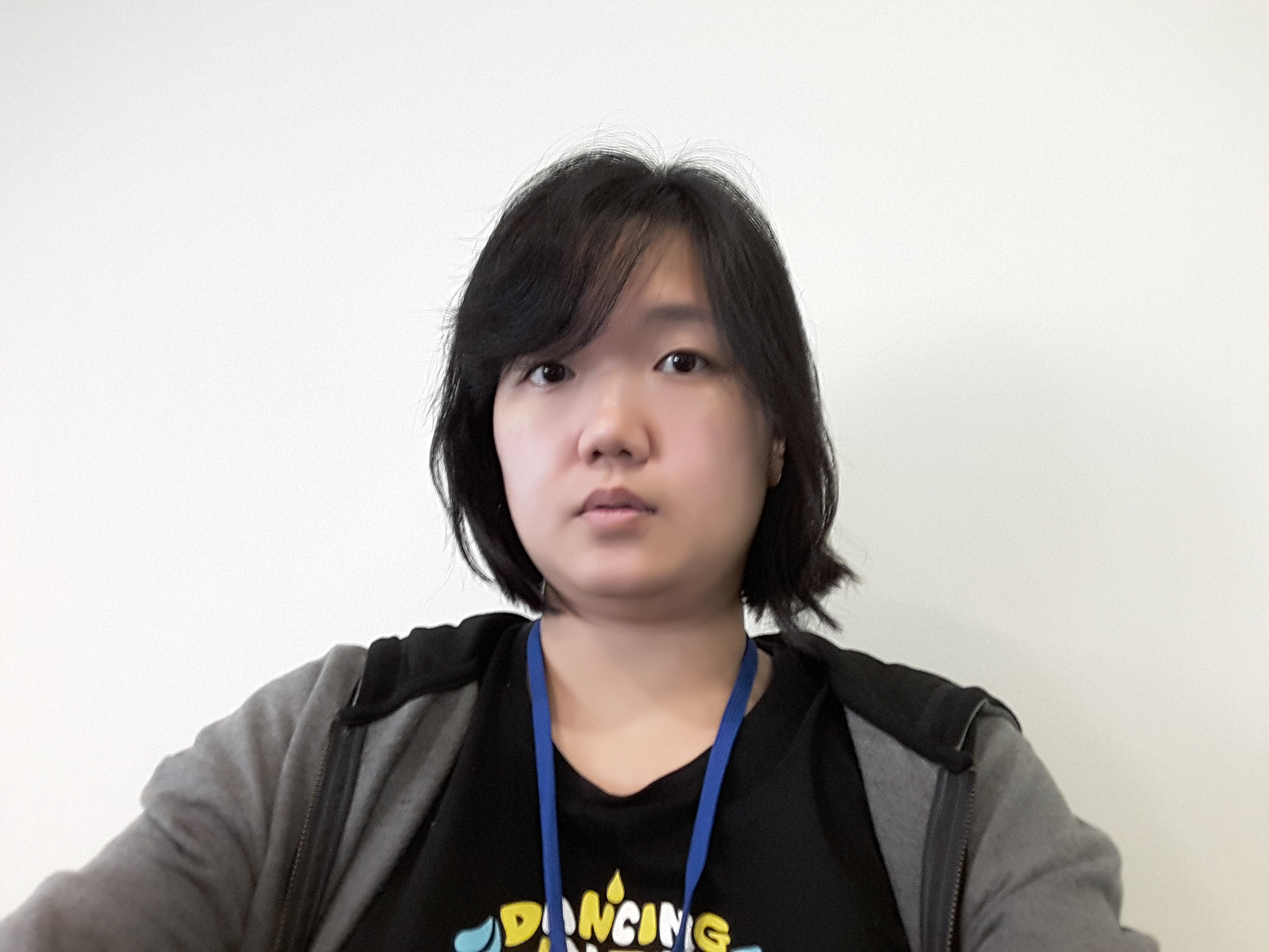
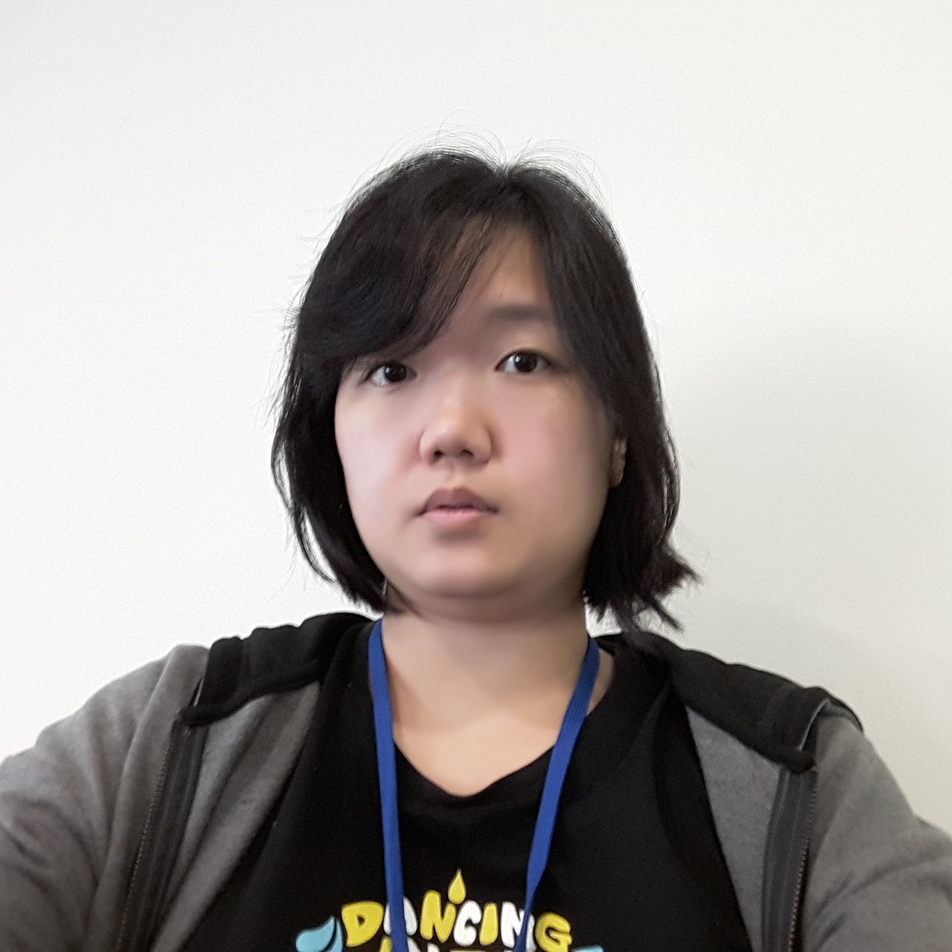
Added shenyang profile, fixed figure sizes

Changed region(s): [[0.0, 0.1553, 1.0, 1.0]]

diff --git a/people.html b/people.html
@@ -110,6 +110,15 @@
 	      </div>
 
 	      <div class="row">
+		<div class="col-xs-12 col-lg-6">
+		  <img src="img/people/shenyang.jpg" height="140" width="140" class="pull-left" alt="" />
+		  <ul style="list-style-type:none">
+		    <li><b>Shen Yang (Staff Scientist)</b></li>
+		    <li>M.S. in Biochemistry (Sun Yat Sen Univ., 2005)</li>
+		    <li>Ph.d in Biochemistry (Sun Yat Sen Univ., Joint-Ph.D Student Scholarship of China Scholarship Council, <a href="http://pondside.uchicago.edu/ecol-evol/">Dept. of Ecol & Evol, Univ. of Chicago</a>, 2009, Advisor: <a href="http://pondside.uchicago.edu/ecol-evol/people/wu.html">Chung-I Wu</a>)</li>
+		    <li>Profiles: <a href="https://scholar.google.com.sg/citations?user=aXQLJ5kAAAAJ&sortby=pubdate">Google Scholar</a></li>
+		  </ul>
+		</div>  
 	      	<div class="col-xs-12 col-lg-6">
 		  <img src="img/people/davide.jpg" height="140" width="140" class="pull-left" alt="" />
 		  <ul style="list-style-type:none">
@@ -119,7 +128,9 @@
                     <li>Profiles: <a href="https://scholar.google.com.sg/citations?user=QBQR50sAAAAJ&hl=en">Google Scholar</a>, <a href="https://www.linkedin.com/in/davideverzotto">LinkedIn</a>, <a href="https://twitter.com/davideverzotto">Twitter</a></li>
 		  </ul>
 		</div>
-
+	      </div>
+	      
+	      <div class="row">
 		<div class="col-xs-12 col-lg-6">
 		  <img src="img/people/tarini.jpg" height="140" width="140" class="pull-left" alt="" />
 		  <ul style="list-style-type:none">
@@ -130,9 +141,6 @@
 	            <li>Profiles: <a href="https://scholar.google.com.sg/citations?user=bAUS2DsAAAAJ&hl=en">Google Scholar</a></li>
 		  </ul>
 		</div>
-	      </div>
-
-	      <div class="row">
 		<div class="col-xs-12 col-lg-6">
 		  <img src="img/people/chenhao.jpg" height="140" width="140" class="pull-left" alt="" />
 		  <ul style="list-style-type:none">
@@ -141,7 +149,9 @@
 	          <li>Ph.D. in Computer Sci., (<a href="http://www.comp.nus.edu.sg/">NUS SoC</a>, 2015-present)</li>
 		  </ul>
 		</div>
-
+	      </div>
+	      
+	      <div class="row">
 		<div class="col-xs-12 col-lg-6">
 		<img src="img/people/nok.jpg" height="140" width="140" class="pull-left" alt="" />
 		<ul style="list-style-type:none">
@@ -151,9 +161,6 @@
 		  <li>Ph.D. in Computer Sci. (<a href="http://www.comp.nus.edu.sg/">NUS SoC</a>, 2015-present) </li>
 		</ul>
 		</div>
-	      </div>
-
-	      <div class="row">
 		<div class="col-xs-12 col-lg-6">
 		  <img src="img/people/amanda.jpg" height="140" width="140" class="pull-left" alt="" />
 		  <ul style="list-style-type:none">
@@ -161,7 +168,9 @@
 		  <li>B.S. (Hons.) in Biological Sci. (<a href="http://www.ntu.edu.sg/Pages/home.aspx">NTU</a>, 2013)</li>
 		  </ul>
 		</div>
-
+	      </div>
+	      
+	      <div class="row">
 		<div class="col-xs-12 col-lg-6">
 		  <img src="img/people/esther.png" height="140" width="140" class="pull-left" alt="" />
 		  <ul style="list-style-type:none">
@@ -171,9 +180,7 @@
 		  <li>Profiles: <a href=”https://www.linkedin.com/in/esther-boey-278b4751”>LinkedIn</a>, <a href=”https://www.researchgate.net/profile/Esther_Boey”>ResearchGate</a></li>
 		  </ul>
 		</div>
-	      </div>
 
-		<div class="row">
                 <div class="col-xs-12 col-lg-6">
                   <img src="img/people/jayce.jpg" height="140" width="140" class="pull-left" alt="" />
                   <ul style="list-style-type:none">
